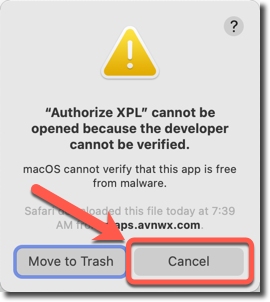
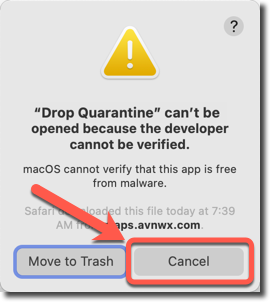
updated documentation, including change to use Drop Quarantine

Changed region(s): [[0.1185, 0.3278, 0.8296, 0.4172]]

diff --git a/XPython/docs/source/usage/mac_quarantine.rst b/XPython/docs/source/usage/mac_quarantine.rst
@@ -7,42 +7,65 @@ Your newly downloaded plugin is subject to Apple's quarantine on recent versions
 able to execute the plugin until you first remove the quarantine. We've included a simple script
 which will fix that for you:
 
-#. Double-click on the AppleScript application "Authorize XPL" included in the XPPython3 folder [#F1]_:
+#. Double-click on the AppleScript application "Drop Quarantine" included in the XPPython3 folder [#F1]_:
 
     .. image:: /images/authorize.png
 
-#. *It* is also subject to quarantine, so you'll see a popup [#F2]_:
+#. *It* is also subject to quarantine, so you'll see one of two popups, depending on your version of MacOS [#F2]_:
 
     .. image:: /images/cannot_verify_XPL.png
+       :width: 45%
+
+    .. image:: /images/cannot_open_XPL.png
+       :width: 45%               
            
-#. Select "Cancel", and open "System Preferences", and "Security & Privacy":
+#. Select "Cancel" or "OK", and open "System Preferences", and "Security & Privacy". Again, depending
+   on your version of MacOS:
 
     .. image:: /images/system_preferences.png
+       :width: 45%        
 
-#. Note **Authorize XPL** is listed as "blocked from use". Select "Open Anyway".
+    .. image:: /images/system_preferences_new.png
+       :width: 45%        
 
-    .. image:: /images/open_anyway.png
+#. Note **Drop Quarantine** is listed as "blocked from use". Scroll down and select "Open Anyway".
 
-    (If "Open" is not selectable, you may need to click on the Lock Icon in the lower
-    left, in order to make changes.)
+     .. image:: /images/open_anyway.png
+        :width: 45%
+
+     .. image:: /images/open_anyway_new.png
+        :width: 50%
+
+   (If "Open" is not selectable, you may need to click on the Lock Icon in the lower
+   left, in order to make changes.)
     
 #. Clicking "Open Anyway" runs the script which will popup similar to:
 
-    .. image:: /images/authorize_popup.png
+     .. image:: /images/authorize_popup.png
 
-    Assuming the final part of the name is "XPPython3", press "Okay" and
-    the plugin and associated files will be authorized.
+   Assuming the final part of the name is "XPPython3", press "Okay" and
+   the plugin and associated files will be authorized.
 
-    You can run the script before or after you've moved XPPython3 folder
-    under X-Plane Resources/plugins hierarchy.
+   You can run the script before or after you've moved XPPython3 folder
+   under X-Plane Resources/plugins hierarchy.
 
-    It will popup "Success" when completed. [#F3]_
+   It will popup "Success" when completed. [#F3]_
+
+#. You **may** see yet another popup, before the "Authorizing..." popup: [#F4]_
+
+     .. image:: /images/original_folder.png
+       :width: 70%
+
+   If so, move Drop Quarantine from the XPPython3 folder to another location -- any location will work.
+   I suggest simply moving it one folder "up" into the Resources/plugins folder & that way it will be
+   available for any quarantined plugin you may want to add in the future. Then, double click on it again
+   to have it do its work.
 
 Now, continue with :ref:`Installation<for-mac>`.
 
 ----
 
-.. [#F1] If you're curious about what the *Authorize XPL* script actually does, you can open it
+.. [#F1] If you're curious about what the *Drop Quarantine* script actually does, you can open it
          in the Apple Script Editor.
 
 .. [#F2] What? Why bother *authorizing* an application to *authorize* the plugin, isn't that double
@@ -59,3 +82,7 @@ Now, continue with :ref:`Installation<for-mac>`.
          the script to the other plugin's folder and execute it again.
 
          Or, check out :doc:`mac_quarantine_commands` to do it via command line.
+
+.. [#F4] Holy cow! Another popup? Yes. Even though Drop Qurantine is *authorized*, it still thinks
+         it (the code) is located in a quarantined folder. Seems like an Apple bug to me. Moving
+         the file *anywhere* causes it to reset its location allowing it to work.

diff --git a/XPython/docs/source/usage/installation_plugin.rst b/XPython/docs/source/usage/installation_plugin.rst
@@ -22,14 +22,17 @@ Three steps:
 
   Select zipfile:
 
-  +----------------+--------------------------------------------------------------------------------------------------------------------+
-  | For Windows    |`xp3-win32.zip <https://github.com/pbuckner/x-plane_plugins/raw/master/XPython/Resources/plugins/xp3-win32.zip>`_   |
-  +----------------+--------------------------------------------------------------------------------------------------------------------+
-  | For Linux      |`xp3-linux.zip <https://github.com/pbuckner/x-plane_plugins/raw/master/XPython/Resources/plugins/xp3-linux.zip>`_   |
-  +----------------+--------------------------------------------------------------------------------------------------------------------+
-  | For Mac        |`xp3-darwin.zip <https://github.com/pbuckner/x-plane_plugins/raw/master/XPython/Resources/plugins/xp3-darwin.zip>`_ |
-  +----------------+--------------------------------------------------------------------------------------------------------------------+
-
+     +----------------+------------------------------------------------------------------------+--------------------------------------------------------------------------+
+     | OS             | Stable Version                                                         | Beta Version [#Beta]_                                                    |
+     +================+========================================================================+==========================================================================+
+     | For Windows    | `xp3-win32.zip <https://maps.avnwx.com/data/x-plane/xp3-win32.zip>`_   | `xp3-win32b.zip <https://maps.avnwx.com/data/x-plane/xp3-win32b.zip>`_   |
+     +----------------+------------------------------------------------------------------------+--------------------------------------------------------------------------+
+     | For Linux      | `xp3-linux.zip <https://maps.avnwx.com/data/x-plane/xp3-linux.zip>`_   | `xp3-linuxb.zip <https://maps.avnwx.com/data/x-plane/xp3-linuxb.zip>`_   |
+     +----------------+------------------------------------------------------------------------+--------------------------------------------------------------------------+
+     | For Mac        | `xp3-darwin.zip <https://maps.avnwx.com/data/x-plane/xp3-darwin.zip>`_ | `xp3-darwinb.zip <https://maps.avnwx.com/data/x-plane/xp3-darwinb.zip>`_ |
+     |                |                                                                        |                                                                          |
+     +----------------+------------------------------------------------------------------------+--------------------------------------------------------------------------+
+   
 
 2. **Extract the xp3xxx.zip** into your :code:`X-Plane/Resources/plugins` folder, such that you have folder there called :code:`XPPython3`.
 
@@ -93,3 +96,8 @@ If it's running, get familiar with :doc:`runtime_menus`.
    common_errors
    getting_support
    
+----
+
+.. [#Beta]
+   *Caution*: It's Beta. Save a copy of your stable XPPython3 just in case (just rename the folder and it won't load automatically).
+   Anything can happen in a Beta, "not working" is common. If you've been invited to use a beta, my deepest thanks.

diff --git a/XPython/docs/source/changelog.rst b/XPython/docs/source/changelog.rst
@@ -32,7 +32,11 @@ Known Bugs
      than Wayland interface and this appears to work. If your UI doesn't use Wayland, you shouldn't
      see anything.
      
-     
+   |
+
+:Fixes:
+   * **XPLMCreateWindow_Ex** was missing a sentinel on keyword argument list causing calls to sometimes
+     fail.
      
 4.2.1 (29-Dec-2023)
 -------------------
